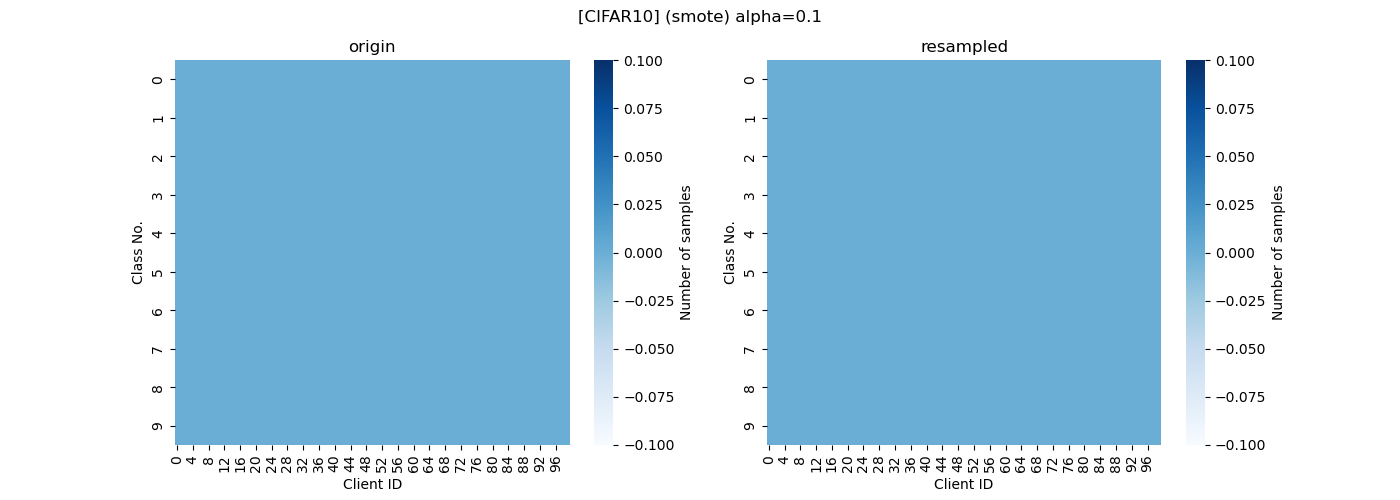
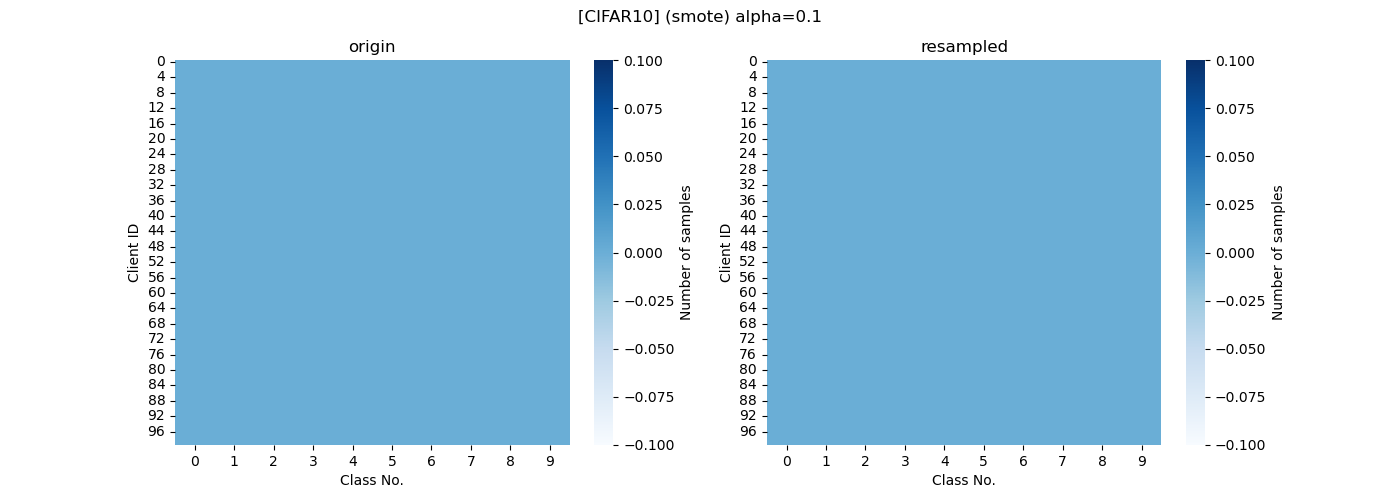
transpose x,y axis for the plot

diff --git a/FedLearning/make_historygram.py b/FedLearning/make_historygram.py
@@ -46,20 +46,20 @@ for i, dataset_name in enumerate(dataset_names):
             # plot 그림
             plt.figure(figsize=(14,5))
             plt.subplot(1, 2, 1)
-            ax = sns.heatmap(table_orig, cmap='Blues', fmt='g', vmin=0, vmax=max_v)
+            ax = sns.heatmap(table_orig.T, cmap='Blues', fmt='g', vmin=0, vmax=max_v)
             ax.collections[0].colorbar.set_label("Number of samples")
             plt.title('origin')
-            plt.ylabel('Class No.')
-            plt.xlabel('Client ID')
+            plt.xlabel('Class No.')
+            plt.ylabel('Client ID')
             # plt.xticks([0, 9, 20-1, 30-1, 40-1, 50-1, 60-1], ['0', '10', '20', '30', '40', '50', '60'])
             # plt.yticks([0, 19, 40-1, 60-1, 80-1, 100-1], ['0', '20', '40', '60', '80', '100'])
 
             plt.subplot(1, 2, 2)
-            ax = sns.heatmap(table_resampled, cmap='Blues', fmt='g', vmin=0, vmax=max_v)
+            ax = sns.heatmap(table_resampled.T, cmap='Blues', fmt='g', vmin=0, vmax=max_v)
             ax.collections[0].colorbar.set_label("Number of samples")
             plt.title('resampled')
-            plt.ylabel('Class No.')
-            plt.xlabel('Client ID')
+            plt.xlabel('Class No.')
+            plt.ylabel('Client ID')
             # plt.xticks([0, 9, 20-1, 30-1, 40-1, 50-1, 60-1], ['0', '10', '20', '30', '40', '50', '60'])
             # plt.yticks([0, 19, 40-1, 60-1, 80-1, 100-1], ['0', '20', '40', '60', '80', '100'])
 
